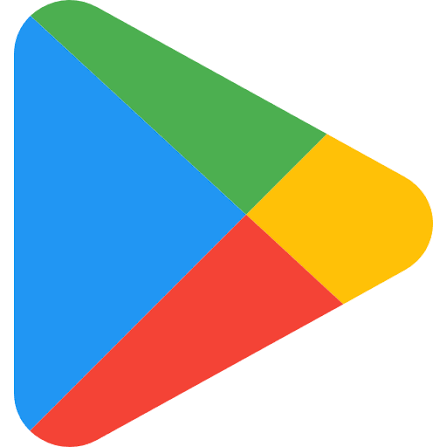
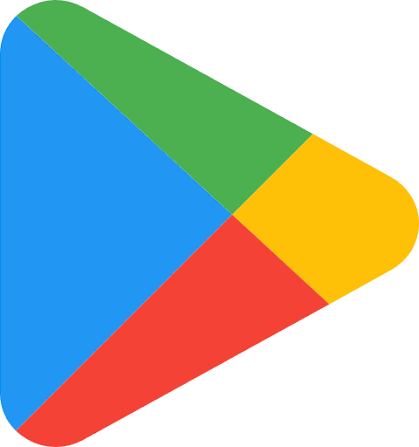
Simplify app download buttons in footer

diff --git a/contacts.html b/contacts.html
@@ -20,7 +20,7 @@
     <section class="contacts-card container"><div class="contacts-copy"><small class="eyebrow">КОНТАКТЫ</small><h1>Мы всегда на связи</h1><dl><div><dt>АДРЕС</dt><dd id="contact-address">г. Астана, ул. Кажымукана, 5</dd></div><div><dt>РЕЖИМ РАБОТЫ</dt><dd>Пн–Вс, 8:00–23:00, без выходных</dd></div><div><dt>ТЕЛЕФОН</dt><dd><a href="tel:+77000701036">+7 (700) 070 10 36</a></dd></div><div><dt>ПОЧТА</dt><dd><a href="mailto:info@sanasport.kz">info@sanasport.kz</a></dd></div></dl><div class="rental-box"><h2>Аренда и сотрудничество</h2><p>Аренда поля и залов, корпоративные предложения и размещение рекламы — пишите на info@sanasport.kz.</p><a class="button button--red" href="mailto:info@sanasport.kz?subject=Sana%20Sport%20-%20аренда">Подробнее об аренде</a></div></div><div class="contacts-map-wrap"><div class="map-search"><label for="map-address">Найти адрес на карте</label><div><input id="map-address" type="text" value="г. Астана, ул. Кажымукана, 5" placeholder="Введите адрес"><button id="map-search-button" type="button">Найти</button></div><span id="map-status" role="status"></span></div><iframe id="contact-map" title="Карта Sana Sport" src="https://yandex.ru/map-widget/v1/?text=%D0%90%D1%81%D1%82%D0%B0%D0%BD%D0%B0%2C%20%D1%83%D0%BB.%20%D0%9A%D0%B0%D0%B6%D1%8B%D0%BC%D1%83%D0%BA%D0%B0%D0%BD%D0%B0%2C%205&z=16" loading="lazy" allowfullscreen></iframe><a class="map-external" id="map-external" href="https://yandex.ru/maps/?text=%D0%90%D1%81%D1%82%D0%B0%D0%BD%D0%B0%2C%20%D1%83%D0%BB.%20%D0%9A%D0%B0%D0%B6%D1%8B%D0%BC%D1%83%D0%BA%D0%B0%D0%BD%D0%B0%2C%205" target="_blank" rel="noopener">Открыть в Яндекс.Картах ↗</a></div></section>
   </main>
 
-  <footer class="footer"><div class="container footer__grid"><div><a class="logo logo--light" href="index.html#top"><img src="images/Group 102.png" alt="Sana Sport"></a><div class="footer-social">◉　◎　◌</div><small>© 2024 Sana Sport</small></div><div><h4>Главная</h4><a href="index.html#about">О нас</a><a href="directions.html">Направления</a><a href="tariffs.html">Тарифы</a><a href="index.html#parents">Для родителей</a></div><div><h4>Меню</h4><a href="index.html#shop">Аренда</a><a href="news.html">Новости</a><a href="contacts.html">Контакты</a><a href="shop.html">Sana Shop</a></div><div><h4>Другое</h4><a href="https://cabinet.sanasport.kz/web/" target="_blank" rel="noopener noreferrer">Политика конфиденциальности</a><a href="https://cabinet.sanasport.kz/web/" target="_blank" rel="noopener noreferrer">Правила посещения центра</a><a href="https://cabinet.sanasport.kz/web/" target="_blank" rel="noopener noreferrer">Оферта</a><a href="https://cabinet.sanasport.kz/web/" target="_blank" rel="noopener noreferrer">Политика обработки данных</a></div></div><div class="footer__download"><div class="container footer__download-inner"><div class="footer__download-copy"><span class="eyebrow eyebrow--light">Sana Sport</span><strong>Скачайте приложение</strong></div><div class="footer__download-actions"><a class="store-badge store-badge--google" href="https://play.google.com/store" target="_blank" rel="noopener noreferrer" aria-label="Скачать в Google Play"><img class="store-badge__icon" src="images/google-play.png" alt="Google Play"><span class="store-badge__meta"><small>GET IT ON</small><strong>Google Play</strong></span></a><a class="store-badge store-badge--apple" href="https://www.apple.com/app-store/" target="_blank" rel="noopener noreferrer" aria-label="Скачать в App Store"><img class="store-badge__icon" src="images/app-store.png" alt="App Store"><span class="store-badge__meta"><small>Download on the</small><strong>App Store</strong></span></a></div></div></div></footer>
+  <footer class="footer"><div class="container footer__grid"><div><a class="logo logo--light" href="index.html#top"><img src="images/Group 102.png" alt="Sana Sport"></a><div class="footer-social">◉　◎　◌</div><small>© 2024 Sana Sport</small></div><div><h4>Главная</h4><a href="index.html#about">О нас</a><a href="directions.html">Направления</a><a href="tariffs.html">Тарифы</a><a href="index.html#parents">Для родителей</a></div><div><h4>Меню</h4><a href="index.html#shop">Аренда</a><a href="news.html">Новости</a><a href="contacts.html">Контакты</a><a href="shop.html">Sana Shop</a></div><div><h4>Другое</h4><a href="https://cabinet.sanasport.kz/web/" target="_blank" rel="noopener noreferrer">Политика конфиденциальности</a><a href="https://cabinet.sanasport.kz/web/" target="_blank" rel="noopener noreferrer">Правила посещения центра</a><a href="https://cabinet.sanasport.kz/web/" target="_blank" rel="noopener noreferrer">Оферта</a><a href="https://cabinet.sanasport.kz/web/" target="_blank" rel="noopener noreferrer">Политика обработки данных</a></div></div><div class="footer__download"><div class="container footer__download-inner"><div class="footer__download-copy"><strong>Скачайте приложение</strong></div><div class="footer__download-actions"><a class="store-badge store-badge--google" href="https://play.google.com/store" target="_blank" rel="noopener noreferrer" aria-label="Скачать в Google Play"><img class="store-badge__icon" src="images/google-play.png" alt="Google Play"><span class="store-badge__meta"><small>GET IT ON</small><strong>Google Play</strong></span></a><a class="store-badge store-badge--apple" href="https://www.apple.com/app-store/" target="_blank" rel="noopener noreferrer" aria-label="Скачать в App Store"><img class="store-badge__icon" src="images/app-store.png" alt="App Store"><span class="store-badge__meta"><small>Download on the</small><strong>App Store</strong></span></a></div></div></div></footer>
   <script src="script.js?v=15"></script>
 </body>
 </html>

diff --git a/shop.html b/shop.html
@@ -31,7 +31,7 @@
 
   <div class="shop-modal" id="shop-modal" aria-hidden="true"><div class="shop-modal__dialog"><button class="shop-modal__close" id="shop-modal-close" type="button" aria-label="Закрыть">×</button><div class="shop-modal__image" id="shop-modal-image"></div><div class="shop-modal__content"><small>ТОВАР SANA SHOP</small><h2 id="shop-modal-title"></h2><strong id="shop-modal-price"></strong><p>Выберите размер, и администратор свяжется с вами для подтверждения заказа.</p><label>Размер<select id="shop-modal-size"><option>XS</option><option>S</option><option>M</option><option>L</option><option>Единый размер</option></select></label><a class="shop-order-button" href="https://cabinet.sanasport.kz/web/" target="_blank" rel="noopener noreferrer">Заказать товар</a></div></div></div>
   <div class="shop-modal shop-notice" id="shop-notice" role="dialog" aria-modal="true" aria-labelledby="shop-notice-title" aria-hidden="true"><div class="shop-modal__dialog"><button class="shop-modal__close" id="shop-notice-close" type="button" aria-label="Закрыть уведомление">×</button><div class="shop-notice__content"><small>SANA SHOP</small><h2 id="shop-notice-title">Каталог товаров</h2><p id="shop-notice-description">В каталоге показаны товары, которые сейчас есть в Sana Sport.</p><p class="shop-notice__pickup" id="shop-notice-pickup">Доставки нет — приобрести товары можно только в самом центре.</p><button class="button button--red" id="shop-notice-confirm" type="button">Понятно</button></div></div></div>
-  <footer class="footer"><div class="container footer__grid"><div><a class="logo logo--light" href="index.html#top"><img src="images/Group 102.png" alt="Sana Sport"></a><div class="footer-social">◉　◎　◌</div><small>© 2024 Sana Sport</small></div><div><h4>Главная</h4><a href="index.html#about">О нас</a><a href="directions.html">Направления</a><a href="tariffs.html">Тарифы</a><a href="index.html#parents">Для родителей</a></div><div><h4>Меню</h4><a href="index.html#shop">Аренда</a><a href="index.html#faq">Новости</a><a href="contacts.html">Контакты</a><a href="shop.html">Sana Shop</a></div><div><h4>Другое</h4><a href="https://cabinet.sanasport.kz/web/" target="_blank" rel="noopener noreferrer">Политика конфиденциальности</a><a href="https://cabinet.sanasport.kz/web/" target="_blank" rel="noopener noreferrer">Правила посещения центра</a><a href="https://cabinet.sanasport.kz/web/" target="_blank" rel="noopener noreferrer">Оферта</a><a href="https://cabinet.sanasport.kz/web/" target="_blank" rel="noopener noreferrer">Политика обработки данных</a></div></div><div class="footer__download"><div class="container footer__download-inner"><div class="footer__download-copy"><span class="eyebrow eyebrow--light">Sana Sport</span><strong>Скачайте приложение</strong></div><div class="footer__download-actions"><a class="store-badge store-badge--google" href="https://play.google.com/store" target="_blank" rel="noopener noreferrer" aria-label="Скачать в Google Play"><img class="store-badge__icon" src="images/google-play.png" alt="Google Play"><span class="store-badge__meta"><small>GET IT ON</small><strong>Google Play</strong></span></a><a class="store-badge store-badge--apple" href="https://www.apple.com/app-store/" target="_blank" rel="noopener noreferrer" aria-label="Скачать в App Store"><img class="store-badge__icon" src="images/app-store.png" alt="App Store"><span class="store-badge__meta"><small>Download on the</small><strong>App Store</strong></span></a></div></div></div></footer>
+  <footer class="footer"><div class="container footer__grid"><div><a class="logo logo--light" href="index.html#top"><img src="images/Group 102.png" alt="Sana Sport"></a><div class="footer-social">◉　◎　◌</div><small>© 2024 Sana Sport</small></div><div><h4>Главная</h4><a href="index.html#about">О нас</a><a href="directions.html">Направления</a><a href="tariffs.html">Тарифы</a><a href="index.html#parents">Для родителей</a></div><div><h4>Меню</h4><a href="index.html#shop">Аренда</a><a href="index.html#faq">Новости</a><a href="contacts.html">Контакты</a><a href="shop.html">Sana Shop</a></div><div><h4>Другое</h4><a href="https://cabinet.sanasport.kz/web/" target="_blank" rel="noopener noreferrer">Политика конфиденциальности</a><a href="https://cabinet.sanasport.kz/web/" target="_blank" rel="noopener noreferrer">Правила посещения центра</a><a href="https://cabinet.sanasport.kz/web/" target="_blank" rel="noopener noreferrer">Оферта</a><a href="https://cabinet.sanasport.kz/web/" target="_blank" rel="noopener noreferrer">Политика обработки данных</a></div></div><div class="footer__download"><div class="container footer__download-inner"><div class="footer__download-copy"><strong>Скачайте приложение</strong></div><div class="footer__download-actions"><a class="store-badge store-badge--google" href="https://play.google.com/store" target="_blank" rel="noopener noreferrer" aria-label="Скачать в Google Play"><img class="store-badge__icon" src="images/google-play.png" alt="Google Play"><span class="store-badge__meta"><small>GET IT ON</small><strong>Google Play</strong></span></a><a class="store-badge store-badge--apple" href="https://www.apple.com/app-store/" target="_blank" rel="noopener noreferrer" aria-label="Скачать в App Store"><img class="store-badge__icon" src="images/app-store.png" alt="App Store"><span class="store-badge__meta"><small>Download on the</small><strong>App Store</strong></span></a></div></div></div></footer>
   <script src="script.js?v=15"></script>
 </body>
 </html>

diff --git a/directions.html b/directions.html
@@ -50,7 +50,7 @@
   </main>
 
   <div class="direction-modal" id="direction-modal" aria-hidden="true"><div class="direction-modal__dialog"><div class="direction-modal__image" id="modal-image"></div><div class="direction-modal__content"><button class="direction-modal__close" id="modal-close" type="button" aria-label="Закрыть">×</button><h2 id="modal-title"></h2><strong id="modal-age"></strong><p id="modal-description"></p><span class="modal-meta">от 8 занятий в месяц</span><a class="modal-cta" href="https://cabinet.sanasport.kz/web/" target="_blank" rel="noopener noreferrer">Записаться на пробное занятие</a></div></div></div>
-  <footer class="footer"><div class="container footer__grid"><div><a class="logo logo--light" href="index.html#top"><img src="images/Group 102.png" alt="Sana Sport"></a><div class="footer-social">◉　◎　◌</div><small>© 2024 Sana Sport</small></div><div><h4>Главная</h4><a href="index.html#about">О нас</a><a href="directions.html">Направления</a><a href="tariffs.html">Тарифы</a><a href="index.html#parents">Для родителей</a></div><div><h4>Меню</h4><a href="index.html#shop">Аренда</a><a href="index.html#faq">Новости</a><a href="contacts.html">Контакты</a><a href="index.html#shop">Sana Shop</a></div><div><h4>Другое</h4><a href="https://cabinet.sanasport.kz/web/" target="_blank" rel="noopener noreferrer">Политика конфиденциальности</a><a href="https://cabinet.sanasport.kz/web/" target="_blank" rel="noopener noreferrer">Правила посещения центра</a><a href="https://cabinet.sanasport.kz/web/" target="_blank" rel="noopener noreferrer">Оферта</a><a href="https://cabinet.sanasport.kz/web/" target="_blank" rel="noopener noreferrer">Политика обработки данных</a></div></div><div class="footer__download"><div class="container footer__download-inner"><div class="footer__download-copy"><span class="eyebrow eyebrow--light">Sana Sport</span><strong>Скачайте приложение</strong></div><div class="footer__download-actions"><a class="store-badge store-badge--google" href="https://play.google.com/store" target="_blank" rel="noopener noreferrer" aria-label="Скачать в Google Play"><img class="store-badge__icon" src="images/google-play.png" alt="Google Play"><span class="store-badge__meta"><small>GET IT ON</small><strong>Google Play</strong></span></a><a class="store-badge store-badge--apple" href="https://www.apple.com/app-store/" target="_blank" rel="noopener noreferrer" aria-label="Скачать в App Store"><img class="store-badge__icon" src="images/app-store.png" alt="App Store"><span class="store-badge__meta"><small>Download on the</small><strong>App Store</strong></span></a></div></div></div></footer>
+  <footer class="footer"><div class="container footer__grid"><div><a class="logo logo--light" href="index.html#top"><img src="images/Group 102.png" alt="Sana Sport"></a><div class="footer-social">◉　◎　◌</div><small>© 2024 Sana Sport</small></div><div><h4>Главная</h4><a href="index.html#about">О нас</a><a href="directions.html">Направления</a><a href="tariffs.html">Тарифы</a><a href="index.html#parents">Для родителей</a></div><div><h4>Меню</h4><a href="index.html#shop">Аренда</a><a href="index.html#faq">Новости</a><a href="contacts.html">Контакты</a><a href="index.html#shop">Sana Shop</a></div><div><h4>Другое</h4><a href="https://cabinet.sanasport.kz/web/" target="_blank" rel="noopener noreferrer">Политика конфиденциальности</a><a href="https://cabinet.sanasport.kz/web/" target="_blank" rel="noopener noreferrer">Правила посещения центра</a><a href="https://cabinet.sanasport.kz/web/" target="_blank" rel="noopener noreferrer">Оферта</a><a href="https://cabinet.sanasport.kz/web/" target="_blank" rel="noopener noreferrer">Политика обработки данных</a></div></div><div class="footer__download"><div class="container footer__download-inner"><div class="footer__download-copy"><strong>Скачайте приложение</strong></div><div class="footer__download-actions"><a class="store-badge store-badge--google" href="https://play.google.com/store" target="_blank" rel="noopener noreferrer" aria-label="Скачать в Google Play"><img class="store-badge__icon" src="images/google-play.png" alt="Google Play"><span class="store-badge__meta"><small>GET IT ON</small><strong>Google Play</strong></span></a><a class="store-badge store-badge--apple" href="https://www.apple.com/app-store/" target="_blank" rel="noopener noreferrer" aria-label="Скачать в App Store"><img class="store-badge__icon" src="images/app-store.png" alt="App Store"><span class="store-badge__meta"><small>Download on the</small><strong>App Store</strong></span></a></div></div></div></footer>
   <script src="script.js?v=15"></script>
 </body>
 </html>

diff --git a/rental.html b/rental.html
@@ -21,7 +21,7 @@
     <section class="rental-cta container"><h2>Видите потенциал в совместной работе?</h2><p>Свяжитесь с нами по адресу <a href="mailto:info@sanasport.kz">info@sanasport.kz</a> — вместе мы можем создать проекты, которые вдохновляют к активной и здоровой жизни.</p><a class="button button--dark" href="mailto:info@sanasport.kz?subject=Sana%20Sport%20-%20заявка%20на%20аренду&body=Здравствуйте!%20Хочу%20узнать%20условия%20аренды.">Оставить заявку на аренду</a></section>
   </main>
 
-  <footer class="footer"><div class="container footer__grid"><div><a class="logo logo--light" href="index.html#top"><img src="images/Group 102.png" alt="Sana Sport"></a><div class="footer-social">◉　◎　◌</div><small>© 2024 Sana Sport</small></div><div><h4>Главная</h4><a href="index.html#about">О нас</a><a href="directions.html">Направления</a><a href="tariffs.html">Тарифы</a><a href="index.html#parents">Для родителей</a></div><div><h4>Меню</h4><a href="rental.html">Аренда</a><a href="news.html">Новости</a><a href="contacts.html">Контакты</a><a href="shop.html">Sana Shop</a></div><div><h4>Другое</h4><a href="https://cabinet.sanasport.kz/web/" target="_blank" rel="noopener noreferrer">Политика конфиденциальности</a><a href="https://cabinet.sanasport.kz/web/" target="_blank" rel="noopener noreferrer">Правила посещения центра</a><a href="https://cabinet.sanasport.kz/web/" target="_blank" rel="noopener noreferrer">Оферта</a><a href="https://cabinet.sanasport.kz/web/" target="_blank" rel="noopener noreferrer">Политика обработки данных</a></div></div><div class="footer__download"><div class="container footer__download-inner"><div class="footer__download-copy"><span class="eyebrow eyebrow--light">Sana Sport</span><strong>Скачайте приложение</strong></div><div class="footer__download-actions"><a class="store-badge store-badge--google" href="https://play.google.com/store" target="_blank" rel="noopener noreferrer" aria-label="Скачать в Google Play"><img class="store-badge__icon" src="images/google-play.png" alt="Google Play"><span class="store-badge__meta"><small>GET IT ON</small><strong>Google Play</strong></span></a><a class="store-badge store-badge--apple" href="https://www.apple.com/app-store/" target="_blank" rel="noopener noreferrer" aria-label="Скачать в App Store"><img class="store-badge__icon" src="images/app-store.png" alt="App Store"><span class="store-badge__meta"><small>Download on the</small><strong>App Store</strong></span></a></div></div></div></footer>
+  <footer class="footer"><div class="container footer__grid"><div><a class="logo logo--light" href="index.html#top"><img src="images/Group 102.png" alt="Sana Sport"></a><div class="footer-social">◉　◎　◌</div><small>© 2024 Sana Sport</small></div><div><h4>Главная</h4><a href="index.html#about">О нас</a><a href="directions.html">Направления</a><a href="tariffs.html">Тарифы</a><a href="index.html#parents">Для родителей</a></div><div><h4>Меню</h4><a href="rental.html">Аренда</a><a href="news.html">Новости</a><a href="contacts.html">Контакты</a><a href="shop.html">Sana Shop</a></div><div><h4>Другое</h4><a href="https://cabinet.sanasport.kz/web/" target="_blank" rel="noopener noreferrer">Политика конфиденциальности</a><a href="https://cabinet.sanasport.kz/web/" target="_blank" rel="noopener noreferrer">Правила посещения центра</a><a href="https://cabinet.sanasport.kz/web/" target="_blank" rel="noopener noreferrer">Оферта</a><a href="https://cabinet.sanasport.kz/web/" target="_blank" rel="noopener noreferrer">Политика обработки данных</a></div></div><div class="footer__download"><div class="container footer__download-inner"><div class="footer__download-copy"><strong>Скачайте приложение</strong></div><div class="footer__download-actions"><a class="store-badge store-badge--google" href="https://play.google.com/store" target="_blank" rel="noopener noreferrer" aria-label="Скачать в Google Play"><img class="store-badge__icon" src="images/google-play.png" alt="Google Play"><span class="store-badge__meta"><small>GET IT ON</small><strong>Google Play</strong></span></a><a class="store-badge store-badge--apple" href="https://www.apple.com/app-store/" target="_blank" rel="noopener noreferrer" aria-label="Скачать в App Store"><img class="store-badge__icon" src="images/app-store.png" alt="App Store"><span class="store-badge__meta"><small>Download on the</small><strong>App Store</strong></span></a></div></div></div></footer>
   <script src="script.js?v=15"></script>
 </body>
 </html>

diff --git a/tariffs.html b/tariffs.html
@@ -42,7 +42,7 @@
     <section class="contact container" id="contact"><div><h2>Получите бесплатный<br>пробный урок</h2><p>Оставьте контакты — вам перезвонят и подберут<br>удобное направление и время.</p></div><form><input type="text" placeholder="Ваше имя" required><input type="tel" placeholder="Телефон родителя" required><button class="button button--dark" type="submit">Отправить заявку</button><span class="form-status" role="status"></span></form></section>
   </main>
 
-  <footer class="footer"><div class="container footer__grid"><div><a class="logo logo--light" href="index.html#top"><img src="images/Group 102.png" alt="Sana Sport"></a><div class="footer-social">◉　◎　◌</div><small>© 2024 Sana Sport</small></div><div><h4>Главная</h4><a href="index.html#about">О нас</a><a href="directions.html">Направления</a><a href="tariffs.html">Тарифы</a><a href="index.html#parents">Для родителей</a></div><div><h4>Меню</h4><a href="index.html#shop">Аренда</a><a href="index.html#faq">Новости</a><a href="contacts.html">Контакты</a><a href="index.html#shop">Sana Shop</a></div><div><h4>Другое</h4><a href="https://cabinet.sanasport.kz/web/" target="_blank" rel="noopener noreferrer">Политика конфиденциальности</a><a href="https://cabinet.sanasport.kz/web/" target="_blank" rel="noopener noreferrer">Правила посещения центра</a><a href="https://cabinet.sanasport.kz/web/" target="_blank" rel="noopener noreferrer">Оферта</a><a href="https://cabinet.sanasport.kz/web/" target="_blank" rel="noopener noreferrer">Политика обработки данных</a></div></div><div class="footer__download"><div class="container footer__download-inner"><div class="footer__download-copy"><span class="eyebrow eyebrow--light">Sana Sport</span><strong>Скачайте приложение</strong></div><div class="footer__download-actions"><a class="store-badge store-badge--google" href="https://play.google.com/store" target="_blank" rel="noopener noreferrer" aria-label="Скачать в Google Play"><img class="store-badge__icon" src="images/google-play.png" alt="Google Play"><span class="store-badge__meta"><small>GET IT ON</small><strong>Google Play</strong></span></a><a class="store-badge store-badge--apple" href="https://www.apple.com/app-store/" target="_blank" rel="noopener noreferrer" aria-label="Скачать в App Store"><img class="store-badge__icon" src="images/app-store.png" alt="App Store"><span class="store-badge__meta"><small>Download on the</small><strong>App Store</strong></span></a></div></div></div></footer>
+  <footer class="footer"><div class="container footer__grid"><div><a class="logo logo--light" href="index.html#top"><img src="images/Group 102.png" alt="Sana Sport"></a><div class="footer-social">◉　◎　◌</div><small>© 2024 Sana Sport</small></div><div><h4>Главная</h4><a href="index.html#about">О нас</a><a href="directions.html">Направления</a><a href="tariffs.html">Тарифы</a><a href="index.html#parents">Для родителей</a></div><div><h4>Меню</h4><a href="index.html#shop">Аренда</a><a href="index.html#faq">Новости</a><a href="contacts.html">Контакты</a><a href="index.html#shop">Sana Shop</a></div><div><h4>Другое</h4><a href="https://cabinet.sanasport.kz/web/" target="_blank" rel="noopener noreferrer">Политика конфиденциальности</a><a href="https://cabinet.sanasport.kz/web/" target="_blank" rel="noopener noreferrer">Правила посещения центра</a><a href="https://cabinet.sanasport.kz/web/" target="_blank" rel="noopener noreferrer">Оферта</a><a href="https://cabinet.sanasport.kz/web/" target="_blank" rel="noopener noreferrer">Политика обработки данных</a></div></div><div class="footer__download"><div class="container footer__download-inner"><div class="footer__download-copy"><strong>Скачайте приложение</strong></div><div class="footer__download-actions"><a class="store-badge store-badge--google" href="https://play.google.com/store" target="_blank" rel="noopener noreferrer" aria-label="Скачать в Google Play"><img class="store-badge__icon" src="images/google-play.png" alt="Google Play"><span class="store-badge__meta"><small>GET IT ON</small><strong>Google Play</strong></span></a><a class="store-badge store-badge--apple" href="https://www.apple.com/app-store/" target="_blank" rel="noopener noreferrer" aria-label="Скачать в App Store"><img class="store-badge__icon" src="images/app-store.png" alt="App Store"><span class="store-badge__meta"><small>Download on the</small><strong>App Store</strong></span></a></div></div></div></footer>
   <script src="script.js?v=15"></script>
 </body>
 </html>

diff --git a/index.html b/index.html
@@ -81,7 +81,7 @@
   </aside>
   <div class="trainer-modal" id="trainer-modal" role="dialog" aria-modal="true" aria-labelledby="trainer-modal-name" aria-hidden="true"><div class="trainer-modal__dialog"><button class="trainer-modal__close" id="trainer-modal-close" type="button" aria-label="Закрыть">×</button><div class="trainer-modal__avatar" id="trainer-modal-avatar"></div><div class="trainer-modal__content"><small>КОМАНДА SANA SPORT</small><h2 id="trainer-modal-name"></h2><p id="trainer-modal-role"></p><a class="button button--red" href="https://cabinet.sanasport.kz/web/" target="_blank" rel="noopener noreferrer">Связаться с нами</a></div></div></div>
 
-  <footer class="footer"><div class="container footer__grid"><div><a class="logo logo--light" href="#top"><img src="images/Group 80.png" alt="Sana Sport"></a><div class="footer-social">◉　◎　◌</div><small>© 2024 Sana Sport</small></div><div><h4>Главная</h4><a href="#about">О нас</a><a href="directions.html">Направления</a><a href="tariffs.html">Тарифы</a><a href="#parents">Для родителей</a></div><div><h4>Меню</h4><a href="#shop">Аренда</a><a href="news.html">Новости</a><a href="contacts.html">Контакты</a><a href="shop.html">Sana Shop</a></div><div><h4>Другое</h4><a href="https://cabinet.sanasport.kz/web/" target="_blank" rel="noopener noreferrer">Политика конфиденциальности</a><a href="https://cabinet.sanasport.kz/web/" target="_blank" rel="noopener noreferrer">Правила посещения центра</a><a href="https://cabinet.sanasport.kz/web/" target="_blank" rel="noopener noreferrer">Оферта</a><a href="https://cabinet.sanasport.kz/web/" target="_blank" rel="noopener noreferrer">Политика обработки данных</a></div></div><div class="footer__download"><div class="container footer__download-inner"><div class="footer__download-copy"><span class="eyebrow eyebrow--light">Sana Sport</span><strong>Скачайте приложение</strong></div><div class="footer__download-actions"><a class="store-badge store-badge--google" href="https://play.google.com/store" target="_blank" rel="noopener noreferrer" aria-label="Скачать в Google Play"><img class="store-badge__icon" src="images/google-play.png" alt="Google Play"><span class="store-badge__meta"><small>GET IT ON</small><strong>Google Play</strong></span></a><a class="store-badge store-badge--apple" href="https://www.apple.com/app-store/" target="_blank" rel="noopener noreferrer" aria-label="Скачать в App Store"><img class="store-badge__icon" src="images/app-store.png" alt="App Store"><span class="store-badge__meta"><small>Download on the</small><strong>App Store</strong></span></a></div></div></div></footer>
+  <footer class="footer"><div class="container footer__grid"><div><a class="logo logo--light" href="#top"><img src="images/Group 80.png" alt="Sana Sport"></a><div class="footer-social">◉　◎　◌</div><small>© 2024 Sana Sport</small></div><div><h4>Главная</h4><a href="#about">О нас</a><a href="directions.html">Направления</a><a href="tariffs.html">Тарифы</a><a href="#parents">Для родителей</a></div><div><h4>Меню</h4><a href="#shop">Аренда</a><a href="news.html">Новости</a><a href="contacts.html">Контакты</a><a href="shop.html">Sana Shop</a></div><div><h4>Другое</h4><a href="https://cabinet.sanasport.kz/web/" target="_blank" rel="noopener noreferrer">Политика конфиденциальности</a><a href="https://cabinet.sanasport.kz/web/" target="_blank" rel="noopener noreferrer">Правила посещения центра</a><a href="https://cabinet.sanasport.kz/web/" target="_blank" rel="noopener noreferrer">Оферта</a><a href="https://cabinet.sanasport.kz/web/" target="_blank" rel="noopener noreferrer">Политика обработки данных</a></div></div><div class="footer__download"><div class="container footer__download-inner"><div class="footer__download-copy"><strong>Скачайте приложение</strong></div><div class="footer__download-actions"><a class="store-badge store-badge--google" href="https://play.google.com/store" target="_blank" rel="noopener noreferrer" aria-label="Скачать в Google Play"><img class="store-badge__icon" src="images/google-play.png" alt="Google Play"><span class="store-badge__meta"><small>GET IT ON</small><strong>Google Play</strong></span></a><a class="store-badge store-badge--apple" href="https://www.apple.com/app-store/" target="_blank" rel="noopener noreferrer" aria-label="Скачать в App Store"><img class="store-badge__icon" src="images/app-store.png" alt="App Store"><span class="store-badge__meta"><small>Download on the</small><strong>App Store</strong></span></a></div></div></div></footer>
   <script src="script.js?v=15"></script>
 </body>
 </html>

diff --git a/parents.html b/parents.html
@@ -30,7 +30,7 @@
   </main>
 
   <div class="parent-modal" id="parent-modal" aria-hidden="true"><div class="parent-modal__dialog"><button class="parent-modal__close" id="parent-modal-close" type="button" aria-label="Закрыть">×</button><div class="parent-modal__image" id="parent-modal-image"></div><div class="parent-modal__content"><small>ПОЛЕЗНО ДЛЯ РОДИТЕЛЕЙ</small><h2 id="parent-modal-title"></h2><p id="parent-modal-text"></p><a class="button button--red" href="https://cabinet.sanasport.kz/web/" target="_blank" rel="noopener noreferrer">Задать вопрос</a></div></div></div>
-  <footer class="footer"><div class="container footer__grid"><div><a class="logo logo--light" href="index.html#top"><img src="images/Group 102.png" alt="Sana Sport"></a><div class="footer-social">◉　◎　◌</div><small>© 2024 Sana Sport</small></div><div><h4>Главная</h4><a href="index.html#about">О нас</a><a href="directions.html">Направления</a><a href="tariffs.html">Тарифы</a><a href="parents.html">Для родителей</a></div><div><h4>Меню</h4><a href="rental.html">Аренда</a><a href="news.html">Новости</a><a href="contacts.html">Контакты</a><a href="shop.html">Sana Shop</a></div><div><h4>Другое</h4><a href="https://cabinet.sanasport.kz/web/" target="_blank" rel="noopener noreferrer">Политика конфиденциальности</a><a href="https://cabinet.sanasport.kz/web/" target="_blank" rel="noopener noreferrer">Правила посещения центра</a><a href="https://cabinet.sanasport.kz/web/" target="_blank" rel="noopener noreferrer">Оферта</a><a href="https://cabinet.sanasport.kz/web/" target="_blank" rel="noopener noreferrer">Политика обработки данных</a></div></div><div class="footer__download"><div class="container footer__download-inner"><div class="footer__download-copy"><span class="eyebrow eyebrow--light">Sana Sport</span><strong>Скачайте приложение</strong></div><div class="footer__download-actions"><a class="store-badge store-badge--google" href="https://play.google.com/store" target="_blank" rel="noopener noreferrer" aria-label="Скачать в Google Play"><img class="store-badge__icon" src="images/google-play.png" alt="Google Play"><span class="store-badge__meta"><small>GET IT ON</small><strong>Google Play</strong></span></a><a class="store-badge store-badge--apple" href="https://www.apple.com/app-store/" target="_blank" rel="noopener noreferrer" aria-label="Скачать в App Store"><img class="store-badge__icon" src="images/app-store.png" alt="App Store"><span class="store-badge__meta"><small>Download on the</small><strong>App Store</strong></span></a></div></div></div></footer>
+  <footer class="footer"><div class="container footer__grid"><div><a class="logo logo--light" href="index.html#top"><img src="images/Group 102.png" alt="Sana Sport"></a><div class="footer-social">◉　◎　◌</div><small>© 2024 Sana Sport</small></div><div><h4>Главная</h4><a href="index.html#about">О нас</a><a href="directions.html">Направления</a><a href="tariffs.html">Тарифы</a><a href="parents.html">Для родителей</a></div><div><h4>Меню</h4><a href="rental.html">Аренда</a><a href="news.html">Новости</a><a href="contacts.html">Контакты</a><a href="shop.html">Sana Shop</a></div><div><h4>Другое</h4><a href="https://cabinet.sanasport.kz/web/" target="_blank" rel="noopener noreferrer">Политика конфиденциальности</a><a href="https://cabinet.sanasport.kz/web/" target="_blank" rel="noopener noreferrer">Правила посещения центра</a><a href="https://cabinet.sanasport.kz/web/" target="_blank" rel="noopener noreferrer">Оферта</a><a href="https://cabinet.sanasport.kz/web/" target="_blank" rel="noopener noreferrer">Политика обработки данных</a></div></div><div class="footer__download"><div class="container footer__download-inner"><div class="footer__download-copy"><strong>Скачайте приложение</strong></div><div class="footer__download-actions"><a class="store-badge store-badge--google" href="https://play.google.com/store" target="_blank" rel="noopener noreferrer" aria-label="Скачать в Google Play"><img class="store-badge__icon" src="images/google-play.png" alt="Google Play"><span class="store-badge__meta"><small>GET IT ON</small><strong>Google Play</strong></span></a><a class="store-badge store-badge--apple" href="https://www.apple.com/app-store/" target="_blank" rel="noopener noreferrer" aria-label="Скачать в App Store"><img class="store-badge__icon" src="images/app-store.png" alt="App Store"><span class="store-badge__meta"><small>Download on the</small><strong>App Store</strong></span></a></div></div></div></footer>
   <script src="script.js?v=15"></script>
 </body>
 </html>

diff --git a/news.html b/news.html
@@ -25,7 +25,7 @@
   </main>
 
   <div class="news-modal" id="news-modal" aria-hidden="true"><div class="news-modal__dialog"><button class="news-modal__close" id="news-modal-close" type="button" aria-label="Закрыть">×</button><div class="news-modal__image" id="news-modal-image"></div><div class="news-modal__content"><time id="news-modal-date"></time><h2 id="news-modal-title"></h2><p id="news-modal-text"></p><a class="button button--red" href="https://cabinet.sanasport.kz/web/" target="_blank" rel="noopener noreferrer">Связаться с нами</a></div></div></div>
-  <footer class="footer"><div class="container footer__grid"><div><a class="logo logo--light" href="index.html#top"><img src="images/Group 102.png" alt="Sana Sport"></a><div class="footer-social">◉　◎　◌</div><small>© 2024 Sana Sport</small></div><div><h4>Главная</h4><a href="index.html#about">О нас</a><a href="directions.html">Направления</a><a href="tariffs.html">Тарифы</a><a href="index.html#parents">Для родителей</a></div><div><h4>Меню</h4><a href="index.html#shop">Аренда</a><a href="news.html">Новости</a><a href="contacts.html">Контакты</a><a href="shop.html">Sana Shop</a></div><div><h4>Другое</h4><a href="https://cabinet.sanasport.kz/web/" target="_blank" rel="noopener noreferrer">Политика конфиденциальности</a><a href="https://cabinet.sanasport.kz/web/" target="_blank" rel="noopener noreferrer">Правила посещения центра</a><a href="https://cabinet.sanasport.kz/web/" target="_blank" rel="noopener noreferrer">Оферта</a><a href="https://cabinet.sanasport.kz/web/" target="_blank" rel="noopener noreferrer">Политика обработки данных</a></div></div><div class="footer__download"><div class="container footer__download-inner"><div class="footer__download-copy"><span class="eyebrow eyebrow--light">Sana Sport</span><strong>Скачайте приложение</strong></div><div class="footer__download-actions"><a class="store-badge store-badge--google" href="https://play.google.com/store" target="_blank" rel="noopener noreferrer" aria-label="Скачать в Google Play"><img class="store-badge__icon" src="images/google-play.png" alt="Google Play"><span class="store-badge__meta"><small>GET IT ON</small><strong>Google Play</strong></span></a><a class="store-badge store-badge--apple" href="https://www.apple.com/app-store/" target="_blank" rel="noopener noreferrer" aria-label="Скачать в App Store"><img class="store-badge__icon" src="images/app-store.png" alt="App Store"><span class="store-badge__meta"><small>Download on the</small><strong>App Store</strong></span></a></div></div></div></footer>
+  <footer class="footer"><div class="container footer__grid"><div><a class="logo logo--light" href="index.html#top"><img src="images/Group 102.png" alt="Sana Sport"></a><div class="footer-social">◉　◎　◌</div><small>© 2024 Sana Sport</small></div><div><h4>Главная</h4><a href="index.html#about">О нас</a><a href="directions.html">Направления</a><a href="tariffs.html">Тарифы</a><a href="index.html#parents">Для родителей</a></div><div><h4>Меню</h4><a href="index.html#shop">Аренда</a><a href="news.html">Новости</a><a href="contacts.html">Контакты</a><a href="shop.html">Sana Shop</a></div><div><h4>Другое</h4><a href="https://cabinet.sanasport.kz/web/" target="_blank" rel="noopener noreferrer">Политика конфиденциальности</a><a href="https://cabinet.sanasport.kz/web/" target="_blank" rel="noopener noreferrer">Правила посещения центра</a><a href="https://cabinet.sanasport.kz/web/" target="_blank" rel="noopener noreferrer">Оферта</a><a href="https://cabinet.sanasport.kz/web/" target="_blank" rel="noopener noreferrer">Политика обработки данных</a></div></div><div class="footer__download"><div class="container footer__download-inner"><div class="footer__download-copy"><strong>Скачайте приложение</strong></div><div class="footer__download-actions"><a class="store-badge store-badge--google" href="https://play.google.com/store" target="_blank" rel="noopener noreferrer" aria-label="Скачать в Google Play"><img class="store-badge__icon" src="images/google-play.png" alt="Google Play"><span class="store-badge__meta"><small>GET IT ON</small><strong>Google Play</strong></span></a><a class="store-badge store-badge--apple" href="https://www.apple.com/app-store/" target="_blank" rel="noopener noreferrer" aria-label="Скачать в App Store"><img class="store-badge__icon" src="images/app-store.png" alt="App Store"><span class="store-badge__meta"><small>Download on the</small><strong>App Store</strong></span></a></div></div></div></footer>
   <script src="script.js?v=15"></script>
 </body>
 </html>

diff --git a/index-served.html b/index-served.html
@@ -80,7 +80,7 @@
     </form>
   </aside>
 
-  <footer class="footer"><div class="container footer__grid"><div><a class="logo logo--light" href="#top"><img src="images/Group 102.png" alt="Sana Sport"></a><div class="footer-social">◉　◎　◌</div><small>© 2024 Sana Sport</small></div><div><h4>Главная</h4><a href="#about">О нас</a><a href="directions.html">Направления</a><a href="tariffs.html">Тарифы</a><a href="#parents">Для родителей</a></div><div><h4>Меню</h4><a href="#shop">Аренда</a><a href="news.html">Новости</a><a href="contacts.html">Контакты</a><a href="shop.html">Sana Shop</a></div><div><h4>Другое</h4><a href="https://cabinet.sanasport.kz/web/" target="_blank" rel="noopener noreferrer">Политика конфиденциальности</a><a href="https://cabinet.sanasport.kz/web/" target="_blank" rel="noopener noreferrer">Правила посещения центра</a><a href="https://cabinet.sanasport.kz/web/" target="_blank" rel="noopener noreferrer">Оферта</a><a href="https://cabinet.sanasport.kz/web/" target="_blank" rel="noopener noreferrer">Политика обработки данных</a></div></div><div class="footer__download"><div class="container footer__download-inner"><div class="footer__download-copy"><span class="eyebrow eyebrow--light">Sana Sport</span><strong>Скачайте приложение</strong></div><div class="footer__download-actions"><a class="store-badge store-badge--google" href="https://play.google.com/store" target="_blank" rel="noopener noreferrer" aria-label="Скачать в Google Play"><img class="store-badge__icon" src="images/google-play.png" alt="Google Play"><span class="store-badge__meta"><small>GET IT ON</small><strong>Google Play</strong></span></a><a class="store-badge store-badge--apple" href="https://www.apple.com/app-store/" target="_blank" rel="noopener noreferrer" aria-label="Скачать в App Store"><img class="store-badge__icon" src="images/app-store.png" alt="App Store"><span class="store-badge__meta"><small>Download on the</small><strong>App Store</strong></span></a></div></div></div></footer>
+  <footer class="footer"><div class="container footer__grid"><div><a class="logo logo--light" href="#top"><img src="images/Group 102.png" alt="Sana Sport"></a><div class="footer-social">◉　◎　◌</div><small>© 2024 Sana Sport</small></div><div><h4>Главная</h4><a href="#about">О нас</a><a href="directions.html">Направления</a><a href="tariffs.html">Тарифы</a><a href="#parents">Для родителей</a></div><div><h4>Меню</h4><a href="#shop">Аренда</a><a href="news.html">Новости</a><a href="contacts.html">Контакты</a><a href="shop.html">Sana Shop</a></div><div><h4>Другое</h4><a href="https://cabinet.sanasport.kz/web/" target="_blank" rel="noopener noreferrer">Политика конфиденциальности</a><a href="https://cabinet.sanasport.kz/web/" target="_blank" rel="noopener noreferrer">Правила посещения центра</a><a href="https://cabinet.sanasport.kz/web/" target="_blank" rel="noopener noreferrer">Оферта</a><a href="https://cabinet.sanasport.kz/web/" target="_blank" rel="noopener noreferrer">Политика обработки данных</a></div></div><div class="footer__download"><div class="container footer__download-inner"><div class="footer__download-copy"><strong>Скачайте приложение</strong></div><div class="footer__download-actions"><a class="store-badge store-badge--google" href="https://play.google.com/store" target="_blank" rel="noopener noreferrer" aria-label="Скачать в Google Play"><img class="store-badge__icon" src="images/google-play.png" alt="Google Play"><span class="store-badge__meta"><small>GET IT ON</small><strong>Google Play</strong></span></a><a class="store-badge store-badge--apple" href="https://www.apple.com/app-store/" target="_blank" rel="noopener noreferrer" aria-label="Скачать в App Store"><img class="store-badge__icon" src="images/app-store.png" alt="App Store"><span class="store-badge__meta"><small>Download on the</small><strong>App Store</strong></span></a></div></div></div></footer>
   <script src="script.js?v=15"></script>
 </body>
 </html>

diff --git a/styles.css b/styles.css
@@ -1148,20 +1148,17 @@ body.is-kazakh .tab[data-trainer-filter="creative"] {
 }
 .footer__download {
   background: var(--dark);
-  border-top: 1px solid rgba(255, 255, 255, 0.12);
-  border-bottom: 1px solid rgba(255, 255, 255, 0.12);
 }
 .footer__download-inner {
   display: flex;
   align-items: center;
   justify-content: space-between;
   gap: 24px;
-  min-height: 82px;
+  min-height: 68px;
 }
 .footer__download-copy {
   display: flex;
   align-items: center;
-  gap: 14px;
   color: #fff;
 }
 .footer__download-copy strong {
@@ -1170,53 +1167,36 @@ body.is-kazakh .tab[data-trainer-filter="creative"] {
   line-height: 1.2;
   letter-spacing: -0.5px;
 }
-.eyebrow--light {
-  display: inline-flex;
-  align-items: center;
-  justify-content: center;
-  min-height: 28px;
-  padding: 7px 14px;
-  border-radius: 999px;
-  background: rgba(255, 255, 255, 0.1);
-  color: #f1f1f1;
-  font-size: 11px;
-  letter-spacing: 1px;
-  font-weight: 800;
-  text-transform: uppercase;
-}
 .footer__download-actions {
   display: flex;
   align-items: center;
-  gap: 14px;
+  gap: 10px;
   flex-wrap: wrap;
 }
-.store-badge {
+.footer .store-badge {
   display: inline-flex;
   align-items: center;
-  gap: 10px;
-  min-width: 182px;
-  padding: 8px 14px 8px 10px;
-  border-radius: 12px;
-  background: rgba(255, 255, 255, 0.72);
-  border: 1px solid #d5d5d5;
-  color: #1d1d1d;
-  box-shadow: 0 1px 0 rgba(0, 0, 0, 0.02);
+  gap: 8px;
+  min-width: 154px;
+  margin: 0;
+  padding: 6px 10px;
+  border-radius: 8px;
+  background: #111;
+  border: 1px solid #444;
+  color: #fff;
   transition:
     transform 160ms var(--ease-out),
-    border-color 160ms var(--ease-out),
-    box-shadow 160ms var(--ease-out);
+    background-color 160ms var(--ease-out);
 }
 .store-badge:hover,
 .store-badge:focus-visible {
   transform: translateY(-1px);
-  border-color: #c7c7c7;
-  box-shadow: 0 4px 12px rgba(19, 19, 19, 0.06);
+  background: #1a1a1a;
 }
 .store-badge__icon {
   display: block;
-  width: 38px;
-  height: 38px;
-  border-radius: 10px;
+  width: 28px;
+  height: 28px;
   object-fit: contain;
   flex: 0 0 auto;
   background: transparent;
@@ -1227,12 +1207,12 @@ body.is-kazakh .tab[data-trainer-filter="creative"] {
   line-height: 1.1;
 }
 .store-badge__meta small {
-  font-size: 8px;
-  letter-spacing: 0.7px;
-  color: rgba(20, 20, 20, 0.7);
+  font-size: 7px;
+  letter-spacing: 0.6px;
+  color: rgba(255, 255, 255, 0.72);
 }
 .store-badge__meta strong {
-  font-size: 16px;
+  font-size: 14px;
   letter-spacing: -0.3px;
 }
 .footer__grid {
@@ -1330,8 +1310,8 @@ body.is-kazakh .tab[data-trainer-filter="creative"] {
   .footer__download-actions {
     width: 100%;
   }
-  .store-badge {
-    flex: 1 1 100%;
+  .footer .store-badge {
+    flex: 1 1 0;
     min-width: 0;
   }
   .menu-toggle {
